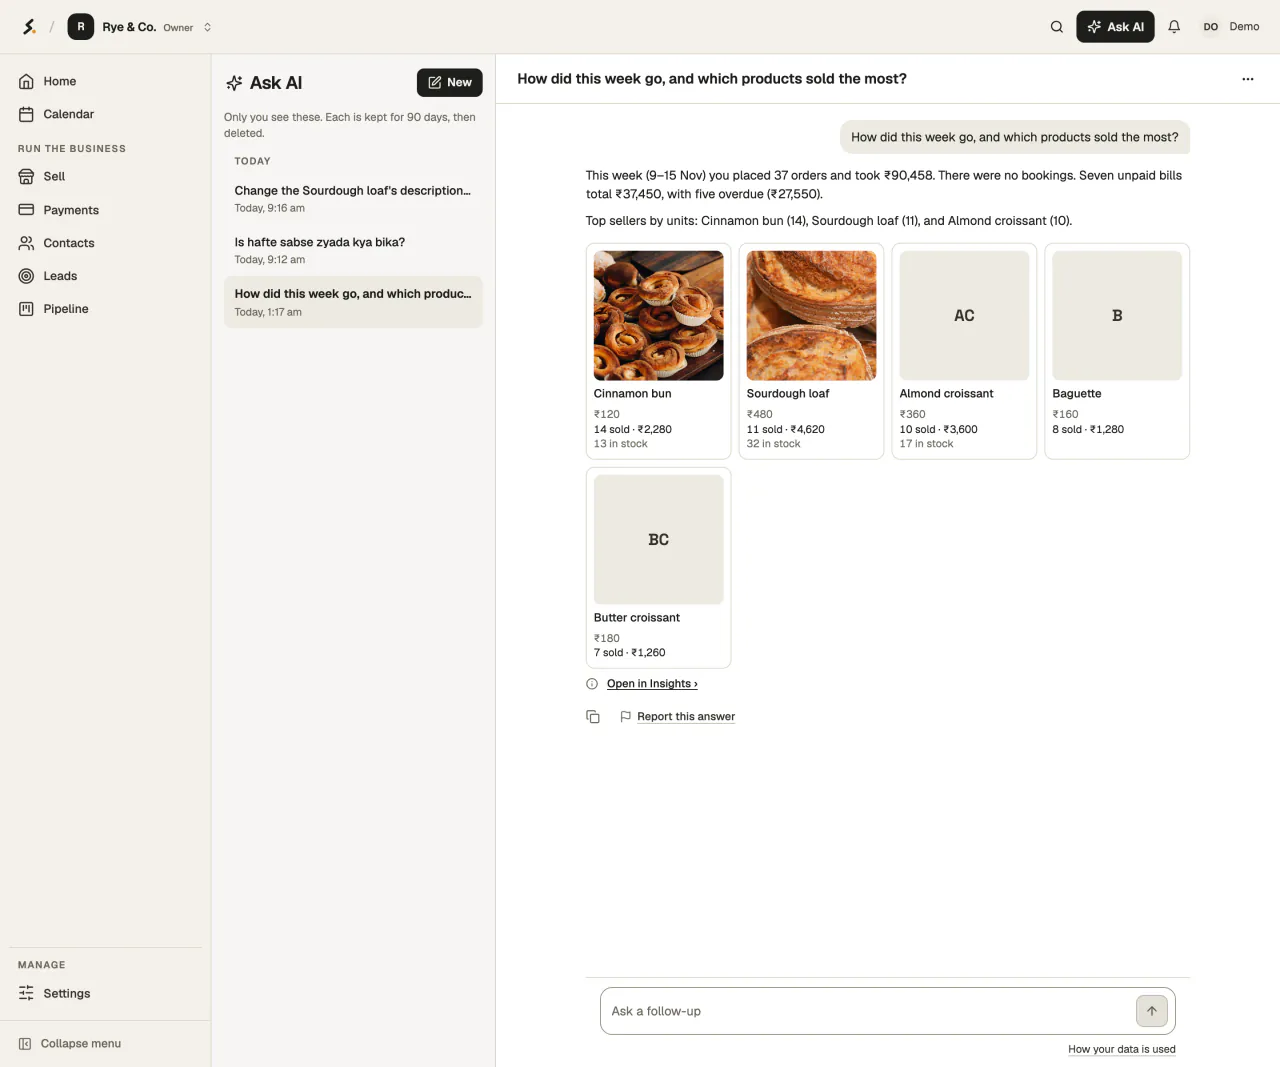
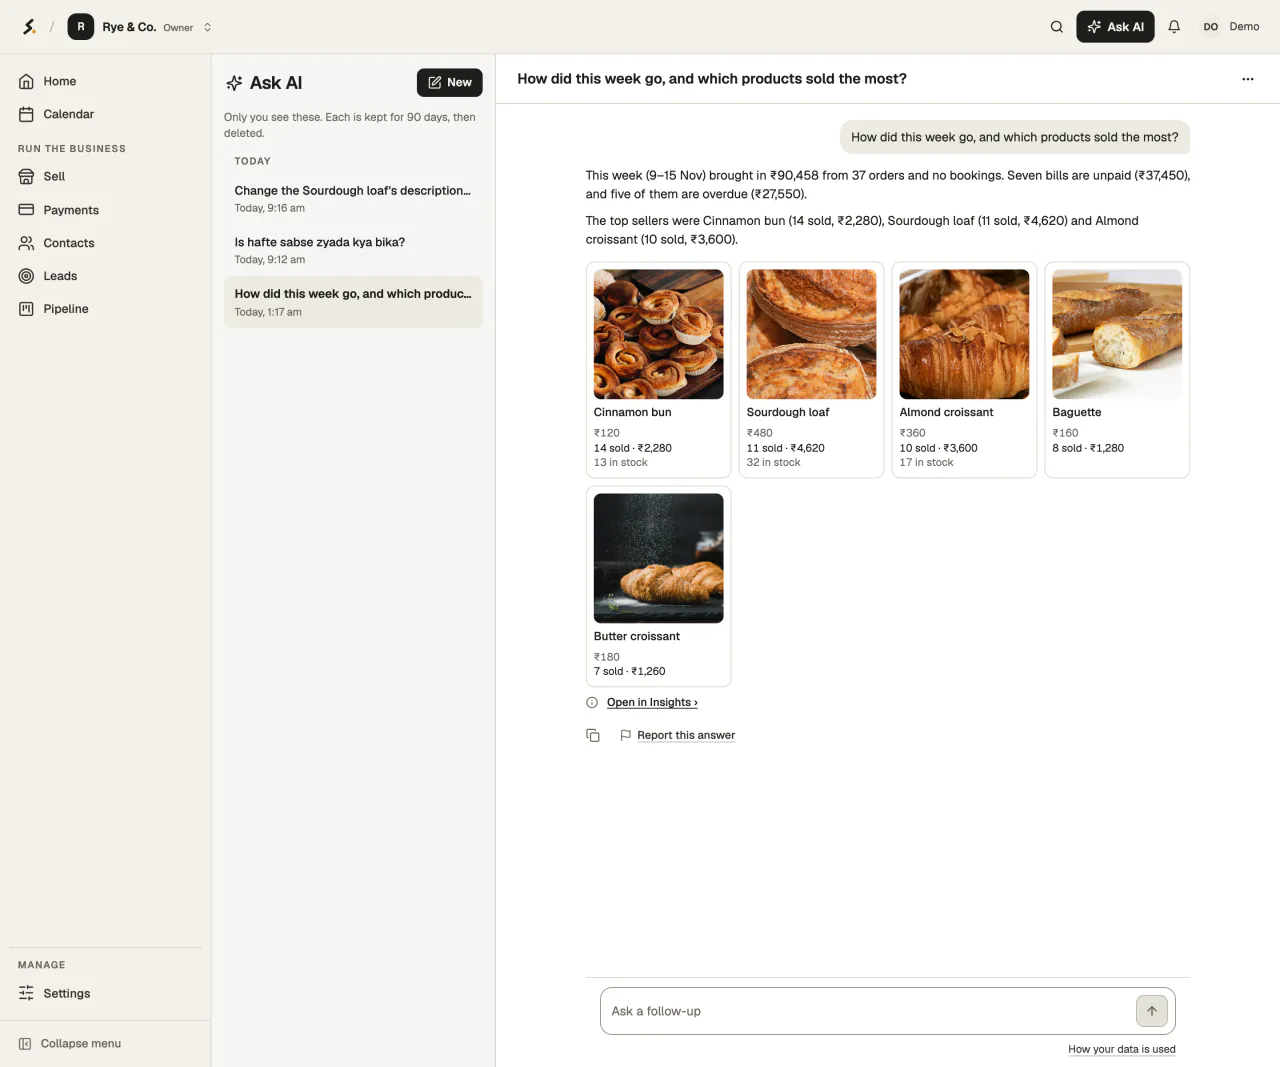
feat(marketing): Ask AI's cards all show photos, and a phone gets a phone-width hero
Rye & Co.'s eleven unphotographed products get free-licence photos (on
media.saroh.io/demo). A shot can carry a phone capture, drawn under 640px
with <picture>; Ask AI's hero uses the app as a phone shows it. The sizing
script rewrites copies older than their capture, and the capture can scroll
a pane back to its top.

Changed region(s): [[0.4375, 0.1546, 0.9375, 0.7113]]

diff --git a/packages/database/src/seed/showcase/bakery-product-page.ts b/packages/database/src/seed/showcase/bakery-product-page.ts
@@ -13,6 +13,7 @@
  */
 
 import { RYE_CAKE_PHOTOS } from "./catalog-photos";
+import { DK_PHOTOS } from "./desk42-photos";
 
 export interface RyePhoto {
     url: string;
@@ -69,6 +70,99 @@ export const PHOTOS: Record<string, readonly RyePhoto[]> = {
         },
     ],
     "house-blend-beans-250g": [
+        {
+            url: unsplash("photo-1654202752477-22b5bc52d4da"),
+            alt: "Roasted coffee beans spilling from a jute bag",
+            width: 1600,
+            height: 1067,
+            creditName: "Krasimir Savchev",
+            creditUrl: "https://unsplash.com/@k_savchev",
+        },
+    ],
+    "rye-caraway-loaf": [
+        {
+            url: unsplash("photo-1509440159596-0249088772ff"),
+            alt: "Round rye loaves, one crusted with seeds, wheat ears laid across them on a floured board",
+            width: 1600,
+            height: 1064,
+            creditName: "Wesual Click",
+            creditUrl: "https://unsplash.com/@wesual",
+        },
+    ],
+    "seeded-multigrain-loaf": [
+        {
+            url: unsplash("photo-1788363632776-185c1539b456"),
+            alt: "Thick slices of seeded wholegrain bread on a wooden board",
+            width: 1600,
+            height: 2400,
+            creditName: "Natasha Reddy",
+            creditUrl: "https://unsplash.com/@natashareddy",
+        },
+    ],
+    baguette: [
+        {
+            url: unsplash("photo-1768203631935-da182455aa6d"),
+            alt: "Baguettes on a white table, one cut open to show the crumb",
+            width: 1600,
+            height: 1067,
+            creditName: "Lee Milo",
+            creditUrl: "https://unsplash.com/@miloleetw",
+        },
+    ],
+    "butter-croissant": [
+        {
+            url: unsplash("photo-1555507036-ab1f4038808a"),
+            alt: "Two golden croissants on a wooden board",
+            width: 1600,
+            height: 1280,
+            creditName: "Mae Mu",
+            creditUrl: "https://unsplash.com/@picoftasty",
+        },
+    ],
+    "pain-au-chocolat": [
+        {
+            url: unsplash("photo-1613929231151-d7571591259e"),
+            alt: "A pain au chocolat on baking paper, chocolate showing at its end",
+            width: 1600,
+            height: 2400,
+            creditName: "Nicholas Doyle",
+            creditUrl: "https://unsplash.com/@nsdoyle",
+        },
+    ],
+    "almond-croissant": [
+        {
+            url: unsplash("photo-1710220988376-16dbd51fd1de"),
+            alt: "Almond croissants topped with flaked almonds on a bakery shelf",
+            width: 1600,
+            height: 1067,
+            creditName: "Ngo Ngoc Khai Huyen",
+            creditUrl: "https://unsplash.com/@khyeonie18",
+        },
+    ],
+    "flat-white": [
+        {
+            url: unsplash("photo-1534778101976-62847782c213"),
+            alt: "A flat white with latte art in a white cup on a wooden café table",
+            width: 1600,
+            height: 2399,
+            creditName: "Harris Vo",
+            creditUrl: "https://unsplash.com/@hoanvokim",
+        },
+    ],
+    "bakers-gift-box": [
+        {
+            url: unsplash("photo-1772651392135-b891a5e4f8a3"),
+            alt: "An open gift box of chocolate-drizzled cookies",
+            width: 1600,
+            height: 2400,
+            creditName: "César Cabrera",
+            creditUrl: "https://unsplash.com/@gaiostudio",
+        },
+    ],
+    // The café drinks share the coworking café's photos (`desk42-photos.ts`).
+    cappuccino: [DK_PHOTOS.cappuccino],
+    "cold-brew": [DK_PHOTOS.coldCoffee],
+    "house-blend-beans-1kg": [
         {
             url: unsplash("photo-1654202752477-22b5bc52d4da"),
             alt: "Roasted coffee beans spilling from a jute bag",

diff --git a/e2e/marketing-shots/shots.config.ts b/e2e/marketing-shots/shots.config.ts
@@ -117,7 +117,9 @@ export type Step =
      * Type into a field, as a person filling a form would. Only on a form
      * that is never submitted (the shot is taken before its button).
      */
-    | { fill: string; value: string };
+    | { fill: string; value: string }
+    /** Scroll this scrolling area back to its top. */
+    | { scrollTop: string };
 
 /**
  * What part of the page is kept. Omitted: the viewport. `selector`: the box
@@ -1626,6 +1628,25 @@ const ASK_AI_SHOTS: Shot[] = [
         alt: "Ask AI at Rye & Co. (demo bakery) answering how the week went, with its best sellers as cards",
         caption:
             "Ask AI's page: How did this week go, and which products sold the most? Answered from the bakery's own orders, with the best sellers as product cards",
+        gap: ASK_GAP,
+    },
+    {
+        // The hero on a phone: the same answer as the app draws it there.
+        key: "ask-hero-phone",
+        business: "rye",
+        role: "owner",
+        route: "/ask",
+        viewport: { width: 390, height: 844 },
+        // A phone opens the list from the page's header.
+        steps: [
+            { click: 'button[aria-label="Your conversations"]' },
+            ...openAsk("How did this week go"),
+            // It opens at the answer's end; show the question and the words.
+            { scrollTop: "#ask-ai-page .overflow-y-auto" },
+        ],
+        alt: "Ask AI on a phone at Rye & Co. (demo bakery), answering how the week went with its best sellers as cards",
+        caption:
+            "Ask AI on a phone: how the week went, answered from the bakery's own orders",
         gap: ASK_GAP,
     },
     {

diff --git a/packages/marketing/src/media/shot-image.tsx b/packages/marketing/src/media/shot-image.tsx
@@ -50,16 +50,19 @@ export function ShotImage({
         );
     }
     const { src, srcSet } = shot;
+    const phone = shot.phone?.src ? shot.phone : undefined;
     if (priority) {
         preload(src, {
             as: "image",
             imageSrcSet: srcSet,
             imageSizes: srcSet ? sizes : undefined,
             fetchPriority: "high",
-            media: priorityFrom,
+            media: phone
+                ? `${PHONE_UP}${priorityFrom ? ` and ${priorityFrom}` : ""}`
+                : priorityFrom,
         });
     }
-    return (
+    const img = (
         // Files with their own srcset; next/image's optimizer is what this replaces.
         <img
             // `sizes` and `srcSet` before `src`: a browser that reads `src`
@@ -85,4 +88,21 @@ export function ShotImage({
             className={cn("block h-auto w-full", className)}
         />
     );
+    if (!phone?.src) return img;
+    return (
+        <picture>
+            <source
+                media={PHONE}
+                sizes={phone.srcSet ? "100vw" : undefined}
+                srcSet={phone.srcSet ?? phone.src}
+                width={phone.width}
+                height={phone.height}
+            />
+            {img}
+        </picture>
+    );
 }
+
+/** Where a shot's `phone` capture is drawn instead. */
+const PHONE = "(max-width: 639px)";
+const PHONE_UP = "(min-width: 640px)";

diff --git a/packages/marketing/src/media/screenshot-frame.test.tsx b/packages/marketing/src/media/screenshot-frame.test.tsx
@@ -69,3 +69,35 @@ describe("ScreenshotFrame with zoom", () => {
         ).toBeTruthy();
     });
 });
+
+describe("ScreenshotFrame with a phone capture", () => {
+    it("draws the phone capture under 640px and the desk one above", () => {
+        const { container } = render(
+            <ScreenshotFrame
+                shot={{
+                    id: "ask-hero",
+                    image: {
+                        src: "/shots/v2/ask-hero.webp",
+                        alt: "Desk",
+                        width: 2880,
+                        height: 2400,
+                        phone: {
+                            src: "/shots/v2/ask-hero-phone.webp",
+                            alt: "Phone",
+                            width: 780,
+                            height: 1688,
+                        },
+                    },
+                }}
+            />,
+        );
+        const source = container.querySelector("picture > source");
+        expect(source?.getAttribute("media")).toBe("(max-width: 639px)");
+        expect(source?.getAttribute("srcset")).toBe(
+            "/shots/v2/ask-hero-phone.webp",
+        );
+        expect(
+            container.querySelector("picture > img")?.getAttribute("src"),
+        ).toBe("/shots/v2/ask-hero.webp");
+    });
+});

diff --git a/apps/saroh.in/content/features.ts b/apps/saroh.in/content/features.ts
@@ -799,7 +799,7 @@ export const features: Record<FeatureSlug, Feature> = {
             "Ask about your business inside Saroh, answered from your own bookings, orders and customers.",
         headline: "Ask about your business. Get a straight answer.",
         sub: "An AI business assistant inside Saroh. Ask in English, Hinglish or Hindi how the week went, what's selling or who hasn't come back, and get the answer from your own records, in the same figures Home and Insights show. Ask it to add or change something and it fills in a card for you to check. Nothing is saved until you confirm.",
-        hero: { shot: "ask-hero" },
+        hero: { shot: "ask-hero", phone: "ask-hero-phone" },
         howTitle: "Ask in your own words.",
         steps: [
             {

diff --git a/apps/saroh.in/components/shared/media/shot-view.ts b/apps/saroh.in/components/shared/media/shot-view.ts
@@ -8,6 +8,15 @@ import { sizedShot } from "@/lib/shot-sources";
  * One shot from this site's manifest, as `@saroh/marketing` draws it. Read on
  * the server, so the browser gets this one shot, never the whole manifest.
  */
-export function shotView(shot: ShotKey, alt?: string): ShotView {
-    return { id: shot, image: sizedShot(shots[shot]), alt };
+export function shotView(
+    shot: ShotKey,
+    alt?: string,
+    phone?: ShotKey,
+): ShotView {
+    const image = sizedShot(shots[shot]);
+    return {
+        id: shot,
+        image: phone ? { ...image, phone: sizedShot(shots[phone]) } : image,
+        alt,
+    };
 }

diff --git a/apps/saroh.in/content/shots.captured.ts b/apps/saroh.in/content/shots.captured.ts
@@ -803,6 +803,12 @@ export const CAPTURED: Record<
         width: 2880,
         height: 2400,
     },
+    "ask-hero-phone": {
+        src: "/shots/v2/ask-hero-phone.webp",
+        alt: "Ask AI on a phone at Rye & Co. (demo bakery), answering how the week went with its best sellers as cards",
+        width: 780,
+        height: 1688,
+    },
     "ask-start": {
         src: "/shots/v2/ask-start.webp",
         alt: "Ask AI at Rye & Co. (demo bakery) before a question, with ready questions",

diff --git a/e2e/marketing-shots/capture.ts b/e2e/marketing-shots/capture.ts
@@ -254,6 +254,11 @@ async function capture(
             await page.locator(step.click).first().click();
         } else if ("fill" in step) {
             await page.locator(step.fill).first().fill(step.value);
+        } else if ("scrollTop" in step) {
+            await page
+                .locator(step.scrollTop)
+                .first()
+                .evaluate((el) => (el.scrollTop = 0));
         } else {
             await page.locator(step.waitFor).first().waitFor();
         }

diff --git a/apps/saroh.in/content/shots.ts b/apps/saroh.in/content/shots.ts
@@ -154,6 +154,9 @@ const designed = {
     "ask-hero": pending(
         "Ask AI at Rye & Co. (demo bakery) answering how the week went, with its best sellers as cards",
     ),
+    "ask-hero-phone": pending(
+        "Ask AI on a phone at Rye & Co. (demo bakery), answering how the week went with its best sellers as cards",
+    ),
     "ask-start": pending(
         "Ask AI at Rye & Co. (demo bakery) before a question, with ready questions",
     ),

diff --git a/packages/marketing/src/content/types.ts b/packages/marketing/src/content/types.ts
@@ -89,6 +89,7 @@ export const SHOT_KEYS = [
     "ai-ask",
     "ai-activity",
     "ask-hero",
+    "ask-hero-phone",
     "ask-start",
     "ask-answer",
     "ask-confirm",
@@ -113,6 +114,8 @@ export type PlanId = "free" | "grow" | "pro";
 export interface ShotRef {
     shot: ShotKey;
     alt?: string;
+    /** A capture at phone width, shown in `shot`'s place on a phone. */
+    phone?: ShotKey;
 }
 
 /**

diff --git a/apps/saroh.in/components/feature/feature-hero.tsx b/apps/saroh.in/components/feature/feature-hero.tsx
@@ -75,7 +75,11 @@ export function FeatureHero({
                 )
             }
             freeLine={line}
-            shot={shotView(feature.hero.shot, feature.hero.alt)}
+            shot={shotView(
+                feature.hero.shot,
+                feature.hero.alt,
+                feature.hero.phone,
+            )}
             chat={feature.heroChat}
         />
     );

diff --git a/packages/marketing/src/media/shot.ts b/packages/marketing/src/media/shot.ts
@@ -10,6 +10,8 @@ export interface Shot {
     srcSet?: string;
     /** A tiny blurred copy (a data URL) shown while the image loads. */
     placeholder?: string;
+    /** Drawn instead on a phone, where a desk capture can't be read. */
+    phone?: Shot;
 }
 
 /** A screenshot as one place shows it. */
